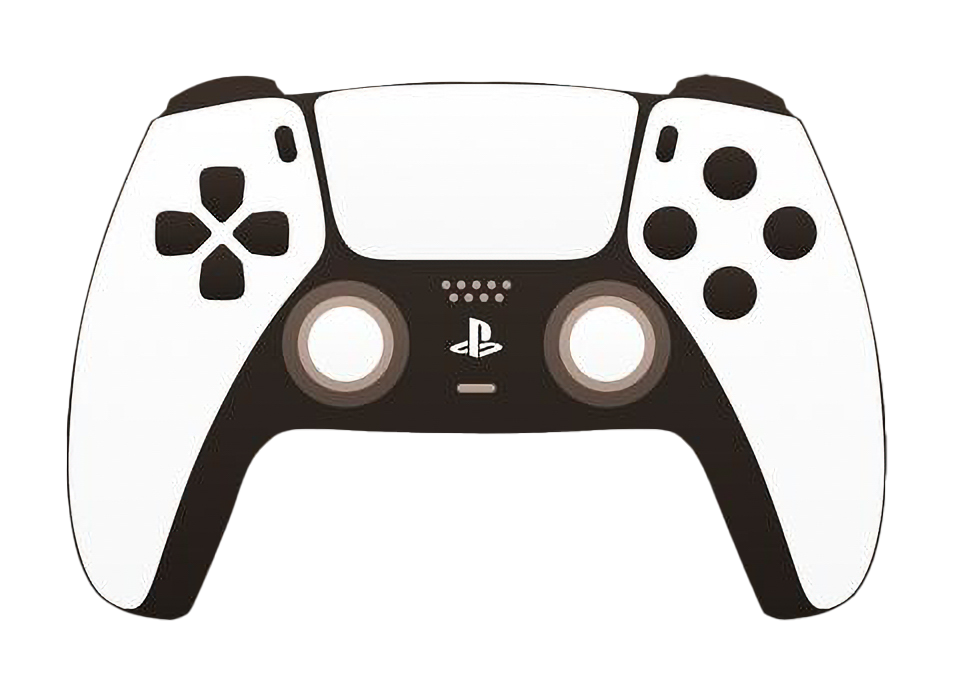
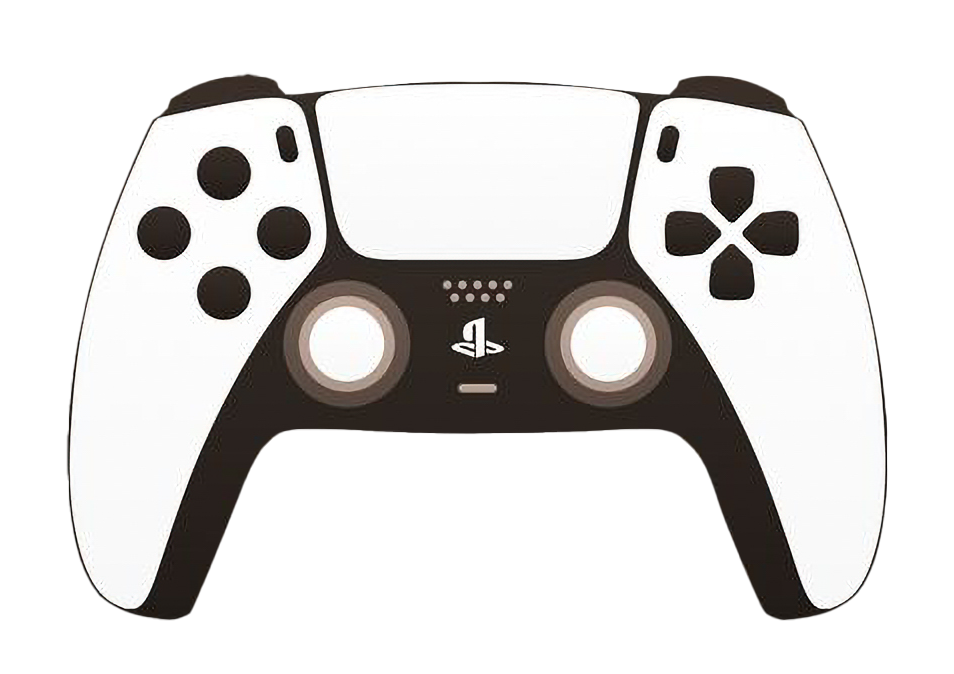
Add ps5 buttons layout

diff --git a/source/gui/menu/widget_menu.cpp b/source/gui/menu/widget_menu.cpp
@@ -50,6 +50,8 @@ void WidgetMenu::drawJoystick()
 
     BeginTextureMode(m_joystick_texture);
     ClearBackground(BLACK);
+    Color transparent = {.r = 0, .g = 0, .b = 0, .a = 0};
+
     if (std::string(GetGamepadName(0)).find("Xbox") != std::string::npos)
     {
         DrawTexturePro(m_xbox_texture, {0, 0, 800, 450}, {385, 200, 800, 450}, {400, 225}, 180., LIGHTGRAY);
@@ -72,8 +74,31 @@ void WidgetMenu::drawJoystick()
         DrawCircle(337, 275, 10., buttons[13] ? RED : BLACK);
         DrawCircle(245 + axis[0] * 40, 273 - axis[1] * 40, 27., buttons[16] ? RED : GREEN);
         DrawCircle(446 + axis[2] * 40, 188 - axis[3] * 40, 27., buttons[17] ? RED : GREEN);
-    } else {
-                DrawTexturePro(m_ps5_texture, {0, 0, 954, 674}, {385, 200, 800, 450}, {400, 225}, 180., WHITE);
+    }
+    else
+    {
+        DrawTexturePro(m_ps5_texture, {0, 0, 954, 674}, {385, 200, 800, 450}, {400, 225}, 180., WHITE);
+        DrawCircle(547, 270, 15., buttons[8] ? RED : transparent);
+        DrawCircle(597, 310, 15., buttons[5] ? RED : transparent);
+        DrawCircle(647, 270, 15., buttons[6] ? RED : transparent);
+        DrawCircle(597, 230, 15., buttons[7] ? RED : transparent);
+
+        DrawRectangle(162, 290, 20, 20, buttons[1] ? RED : transparent);
+        DrawRectangle(122, 260, 20, 20, buttons[4] ? RED : transparent);
+        DrawRectangle(162, 230, 20, 20, buttons[3] ? RED : transparent);
+        DrawRectangle(202, 260, 20, 20, buttons[2] ? RED : transparent);
+
+        DrawCircle(590, 365, 10., buttons[11] ? RED : transparent);
+        DrawCircle(180, 365, 10., buttons[9] ? RED : transparent);
+
+        DrawRectangle(695, 300, 30, axis[5] * 40 + 42, {static_cast<unsigned char>(axis[5] * 127 + 127), 0, 255, 255});
+        DrawRectangle(40, 300, 30, axis[4] * 40 + 42, {static_cast<unsigned char>(axis[4] * 127 + 127), 0, 255, 255});
+
+        DrawCircle(545, 330, 10., buttons[15] ? RED : transparent);
+        DrawCircle(225, 330, 10., buttons[13] ? RED : transparent);
+
+        DrawCircle(275 + axis[0] * 40, 195 - axis[1] * 40, 27., buttons[16] ? RED : GREEN);
+        DrawCircle(495 + axis[2] * 40, 195 - axis[3] * 40, 27., buttons[17] ? RED : GREEN);
     }
     EndTextureMode();
     ImGui::Spacing();
